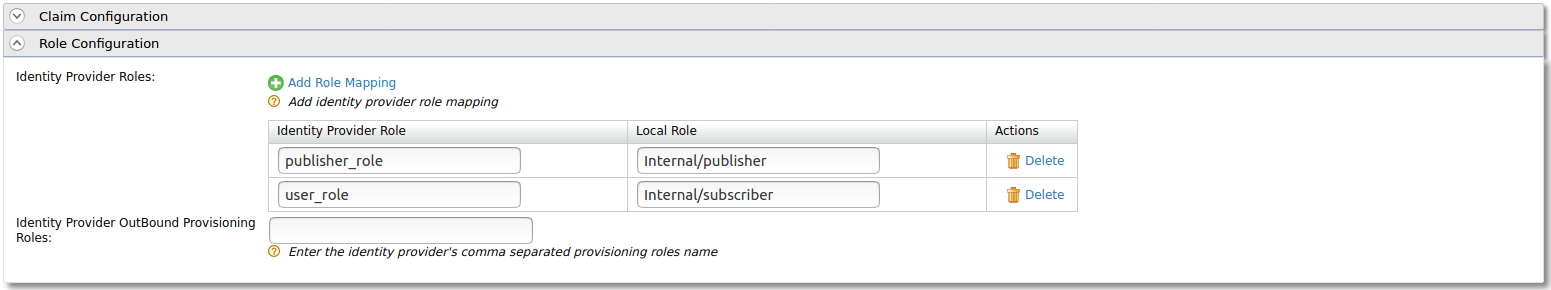
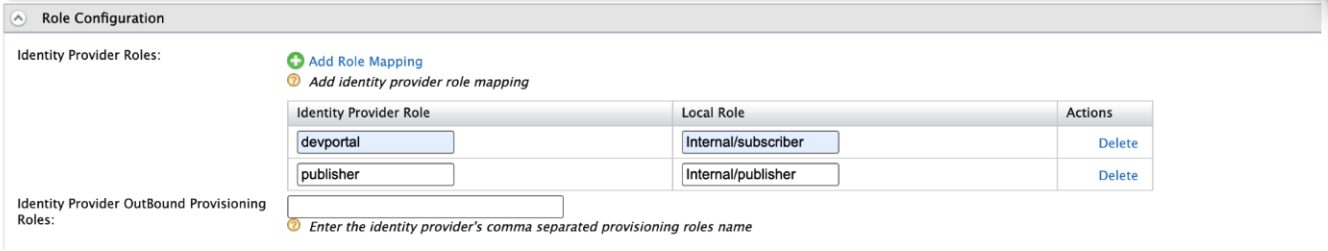
Update SSO OIDC using IS 7
(cherry picked from commit d2a938254d127137d3180b65cf0b55e00a859fc9)

Changed region(s): [[0.0, 0.0, 1.0, 1.0], [0.8027, 0.6693, 0.8645, 0.7251], [0.8027, 0.5578, 0.8645, 0.5857]]

diff --git a/en/docs/api-manager/next/install-and-setup/setup/sso/configuring-identity-server-as-external-idp-using-oidc.md b/en/docs/api-manager/next/install-and-setup/setup/sso/configuring-identity-server-as-external-idp-using-oidc.md
@@ -48,81 +48,88 @@ WSO2 API Manager uses the OIDC Single Sign-On feature by default. This document 
 1.  Sign in to the Management Console of WSO2 IS by browsing the following URL:  
 
     ```
-    https://{is-ip}:9444/carbon
+    https://{is-ip}:9444/console
     ```
 
-2.  Navigate to the **Service Providers** section under Main → Identity and create new Service Provider.
+2.  Create a Service Provider:
 
-3.  Edit the created Service Provider:
+    a.  Go to **Applications** → **New Application** and select **Traditional Web Application**.
 
-    1.  Expand the **Claim Configuration** section. Add the **http://wso2.org/claims/groups** as mandatory claim. In addition, add the **http://wso2.org/claims/username** claim as the **Subject Claim URI**.
+    b.  In the popup, provide the following details and click **Create**:
 
-        [![](../../../assets/img/setup-and-install/claim-configuration-in-service-provider.png)](../../../assets/img/setup-and-install/claim-configuration-in-service-provider.png)
+    <table>
+        <tbody>
+            <tr>
+                <td>Protocol</td>
+                <td>OpenID Connect</td>
+            </tr>
+            <tr>
+                <td>Authorized Redirect URL</td>
+                <td>https://localhost:9443/commonauth</td>
+            </tr>
+        </tbody>
+     </table>
 
-    2.  Expand the **Inbound Authentication Configuration** section and configure **OAuth/OpenID Connect Configuration** with callback URL - `https://{apim-ip}:9443/commonauth`
+    [![Create Traditional Web Application](../../../assets/img/setup-and-install/create-traditional-web-app.png)](../../../assets/img/setup-and-install/create-traditional-web-app.png)
 
-        !!! Info "Enable a tenant-specific SSO for the Publisher and Developer Portal"
+    c.  In the configuration page, select **User Attributes** and enable the **Groups** attribute.
 
-            To enable a tenant-specific SSO with IS 5.10.0 for Publisher and the Developer Portal, enable the **Use tenant domain in local subject identifier** option under the **Local & Outbound Authentication Configuration** section.
+    [![Select Groups user attribute](../../../assets/img/setup-and-install/select-groups-attribute.png)](../../../assets/img/setup-and-install/select-groups-attribute.png)
 
-            [![enable-tenant-domain-in-local-sub-identifier](../../../assets/img/setup-and-install/local-outbound-config.png)](../../../assets/img/setup-and-install/local-outbound-config.png)
+    d.  In the same tab, under the **Subject** section, select **Assign alternate subject identifier** and from the dropdown list select **Username**.
 
-        !!! Note "Options available for **Local & Outbound Authentication Configuration** "
-            
-            -   **Assert identity using mapped local subject identifier** :
-                Select this to use the local subject identifier when asserting the identity.
-                Note that it is **mandatory** to enable the above option to authorize scopes for provisioned federated users. 
-            -   **Always send back the authenticated list of identity providers** : Select this to send back the list of  identity providers that the current user is authenticated by.
-            -   **Use tenant domain in local subject identifier** : Select this to append the tenant domain to the local subject identifier.
-            -   **Use user store domain in local subject identifier** : Select this to append the user store domain that the user resides to the local subject identifier.
-            -   **Use user store domain in roles** : This is selected by default, and appends the userstore domain name to user roles. If you do not want to append the userstore domain name to user roles, clear the check box.
+    [![Assign alternate subject identifier](../../../assets/img/setup-and-install/assign-alternate-subject-identifier.png)](../../../assets/img/setup-and-install/assign-alternate-subject-identifier.png)
 
-                If a user role is not mapped to a service provider role, and you clear the **Use user store domain in roles** check box, the userstore domain name will be removed from the role claim value unless the userstore domain name is APPLICATION, INTERNAL, or WORKFLOW.
-
-    3. Update the Service Provider configurations.
-
-    !!! Info "In Multi-tenanted environments"
-        Carry out the instruction given below for all the tenants to be able to login to the API-M Web applications in a multi-tenanted environment.
-
-        1.  Click the **SaaS Application** option that appears after registering the service provider.
-
-        [![saas-configuration-in-service-provider](../../../assets/img/setup-and-install/saas.png)](../../../assets/img/setup-and-install/saas.png) 
-
-        If you do not select the **SaaS Application** option, only users in the current tenant domain will be allowed to login to the portals. You will need to register separate service providers for portals from each tenant.
+    e.  Under the **Protocol** tab, copy the **Client ID** and **Client Secret**.
 
 ### Step - 2 Create users and roles
 
-1. Create the required users and roles in Identity Server. Assume, following users are created in Identity Servers with the given roles.
+1. Create the required [users](https://is.docs.wso2.com/en/latest/guides/users/onboard-users/) and [groups](https://is.docs.wso2.com/en/latest/guides/users/manage-groups/) in Identity Server. Assume, following users are created in Identity Servers with the given groups.
 
     <table>
         <thead>
             <tr>
                 <th>User</th>
-                <th>Role</th>
+                <th>Groups</th>
             </tr>
         </thead>
         <tbody>
             <tr>
-                <td>api_publisher</td>
-                <td>publisher_role</td>
+                <td>Sam</td>
+                <td>publisher</td>
             </tr>
             <tr>
-                <td>api_user</td>
-                <td>user_role</td>
+                <td>Karen</td>
+                <td>devportal</td>
             </tr>
         </tbody>
     </table>
 
-### Step 3 - Update the OpenID OIDC scope
-
-1. Navigate to the **OIDC Scopes** section under **Main** → **Manage** and list the available scopes.
-
-2. Click **Add Claims** for `openid` scope, click **Add OIDC Claim**, select `groups` claim from the dropdown and click on **Add**.
-   [![Add groups claim to the OIDC scope](../../../assets/img/setup-and-install/update-oidc-scope.png)](../../../assets/img/setup-and-install/update-oidc-scope.png)
-
 ## Configure the API Manager
 
-### Step - 1 Configure the Identity Provider
+### Step - 1 Import the Identity Server Certificate to WSO2 API Manager
+
+Import the Keymanager certificate to the WSO2 API Manager `client-truststore.jks` using the following steps.
+
+1.  Export the WSO2 IS certificate.
+
+    === "On Mac/Linux"
+        ```bash
+        echo -n | openssl s_client -connect localhost:9444 -servername wso2is7 | openssl x509 > is7.cert
+        ```
+
+    === "On Windows"
+        ```bash
+        openssl s_client -connect localhost:9444 -servername wso2is7 < NUL | openssl x509 > is7.cert
+        ```
+
+2.  Import this certificate to the `client-truststore.jks` located in `<AM_HOME>/repository/resources/security/`.
+
+    ```bash
+    keytool -import -alias wso2is7cert -file is7.cert -keystore client-truststore.jks -storepass wso2carbon
+    ```
+
+### Step - 2 Configure the Identity Provider
 
 1.  Sign in to the Management Console of API Manager by browsing the following URL: 
 
@@ -169,6 +176,10 @@ WSO2 API Manager uses the OIDC Single Sign-On feature by default. This document 
                     <td>Logout Endpoint URL</td>
                     <td>https://is.wso2.com:9444/oidc/logout</td>
                 </tr>
+                <tr>
+                    <td>Scopes</td>
+                    <td>openid groups</td>
+                </tr>
             </tbody>
         </table>
 
@@ -191,11 +202,11 @@ WSO2 API Manager uses the OIDC Single Sign-On feature by default. This document 
         </thead>
         <tbody>
             <tr>
-                <td>user_role</td>
+                <td>devportal</td>
                 <td>Internal/Subscriber</td>
             </tr>
             <tr>
-                <td>publisher_role</td>
+                <td>publisher</td>
                 <td>Internal/publisher</td>
             </tr>
         </tbody>
@@ -226,7 +237,7 @@ WSO2 API Manager uses the OIDC Single Sign-On feature by default. This document 
 
     [![Claim mapping for sso](../../../assets/img/setup-and-install/claim-mapping-for-sso.png)](../../../assets/img/setup-and-install/claim-mapping-for-sso.png)
 
-### Step - 2 Configure the Service Provider
+### Step - 3 Configure the Service Provider
 
 1.  Navigate to **Service Providers** section and list the Service Providers. There are two service providers created for Publisher portal and Developer portal named as `apim_publisher` and `apim_devportal`. Edit the `apim_publisher` service provider.
 

diff --git a/en/docs/api-manager/next/get-started/about-this-release.md b/en/docs/api-manager/next/get-started/about-this-release.md
@@ -169,6 +169,17 @@ For more information on WSO2 API Manager, see the [overview](overview.md).
 
 Before upgrading to WSO2 API Manager 4.7.0, review the following architectural and behavioral changes that may impact your deployment, integrations, and runtime behavior:
 
+### JDK 21 and 25 Are the Only Supported Versions
+
+WSO2 API Manager 4.7.0 requires **JDK 21 or JDK 25** to run. Older JDK versions are no longer supported.
+
+* JDK versions prior to 21 are **not supported** and will not work with this release.
+* Ensure your environment is running **JDK 21** or **JDK 25** before upgrading.
+
+**Impact:**
+
+* Deployments running on JDK 11 or JDK 17 must upgrade their JDK before migrating to API Manager 4.7.0.
+
 ### Control Plane Resource Access Restricted by Default
 
 Starting from 4.7.0, control plane resource access via the Tomcat valve follows a **default deny** model instead of the previous permissive behavior.
